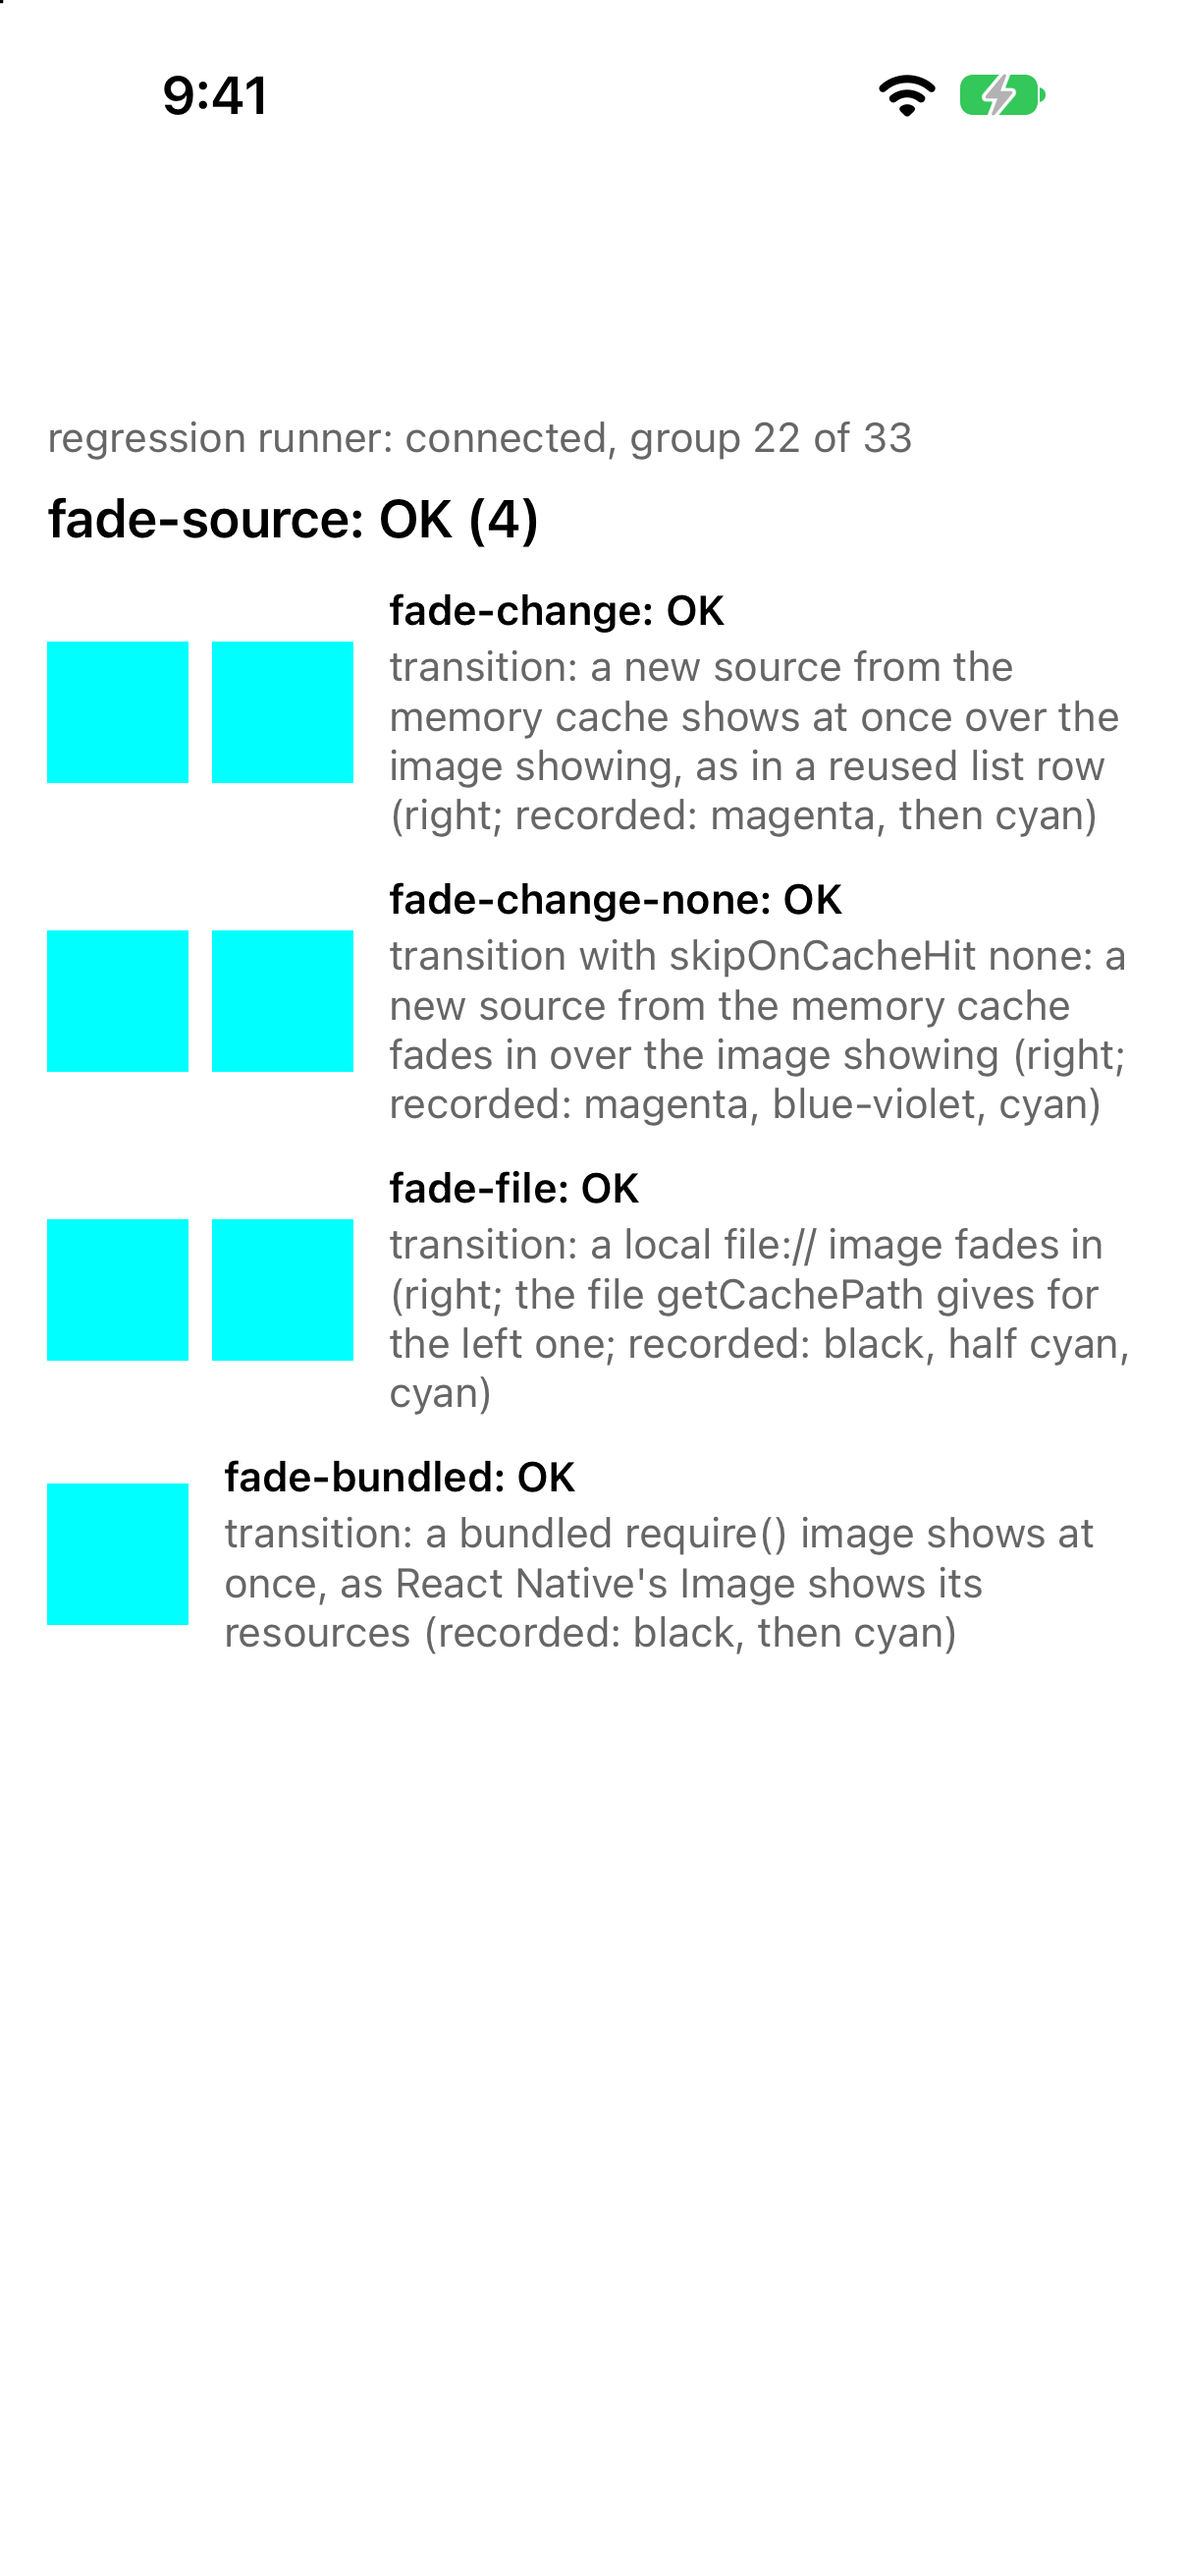
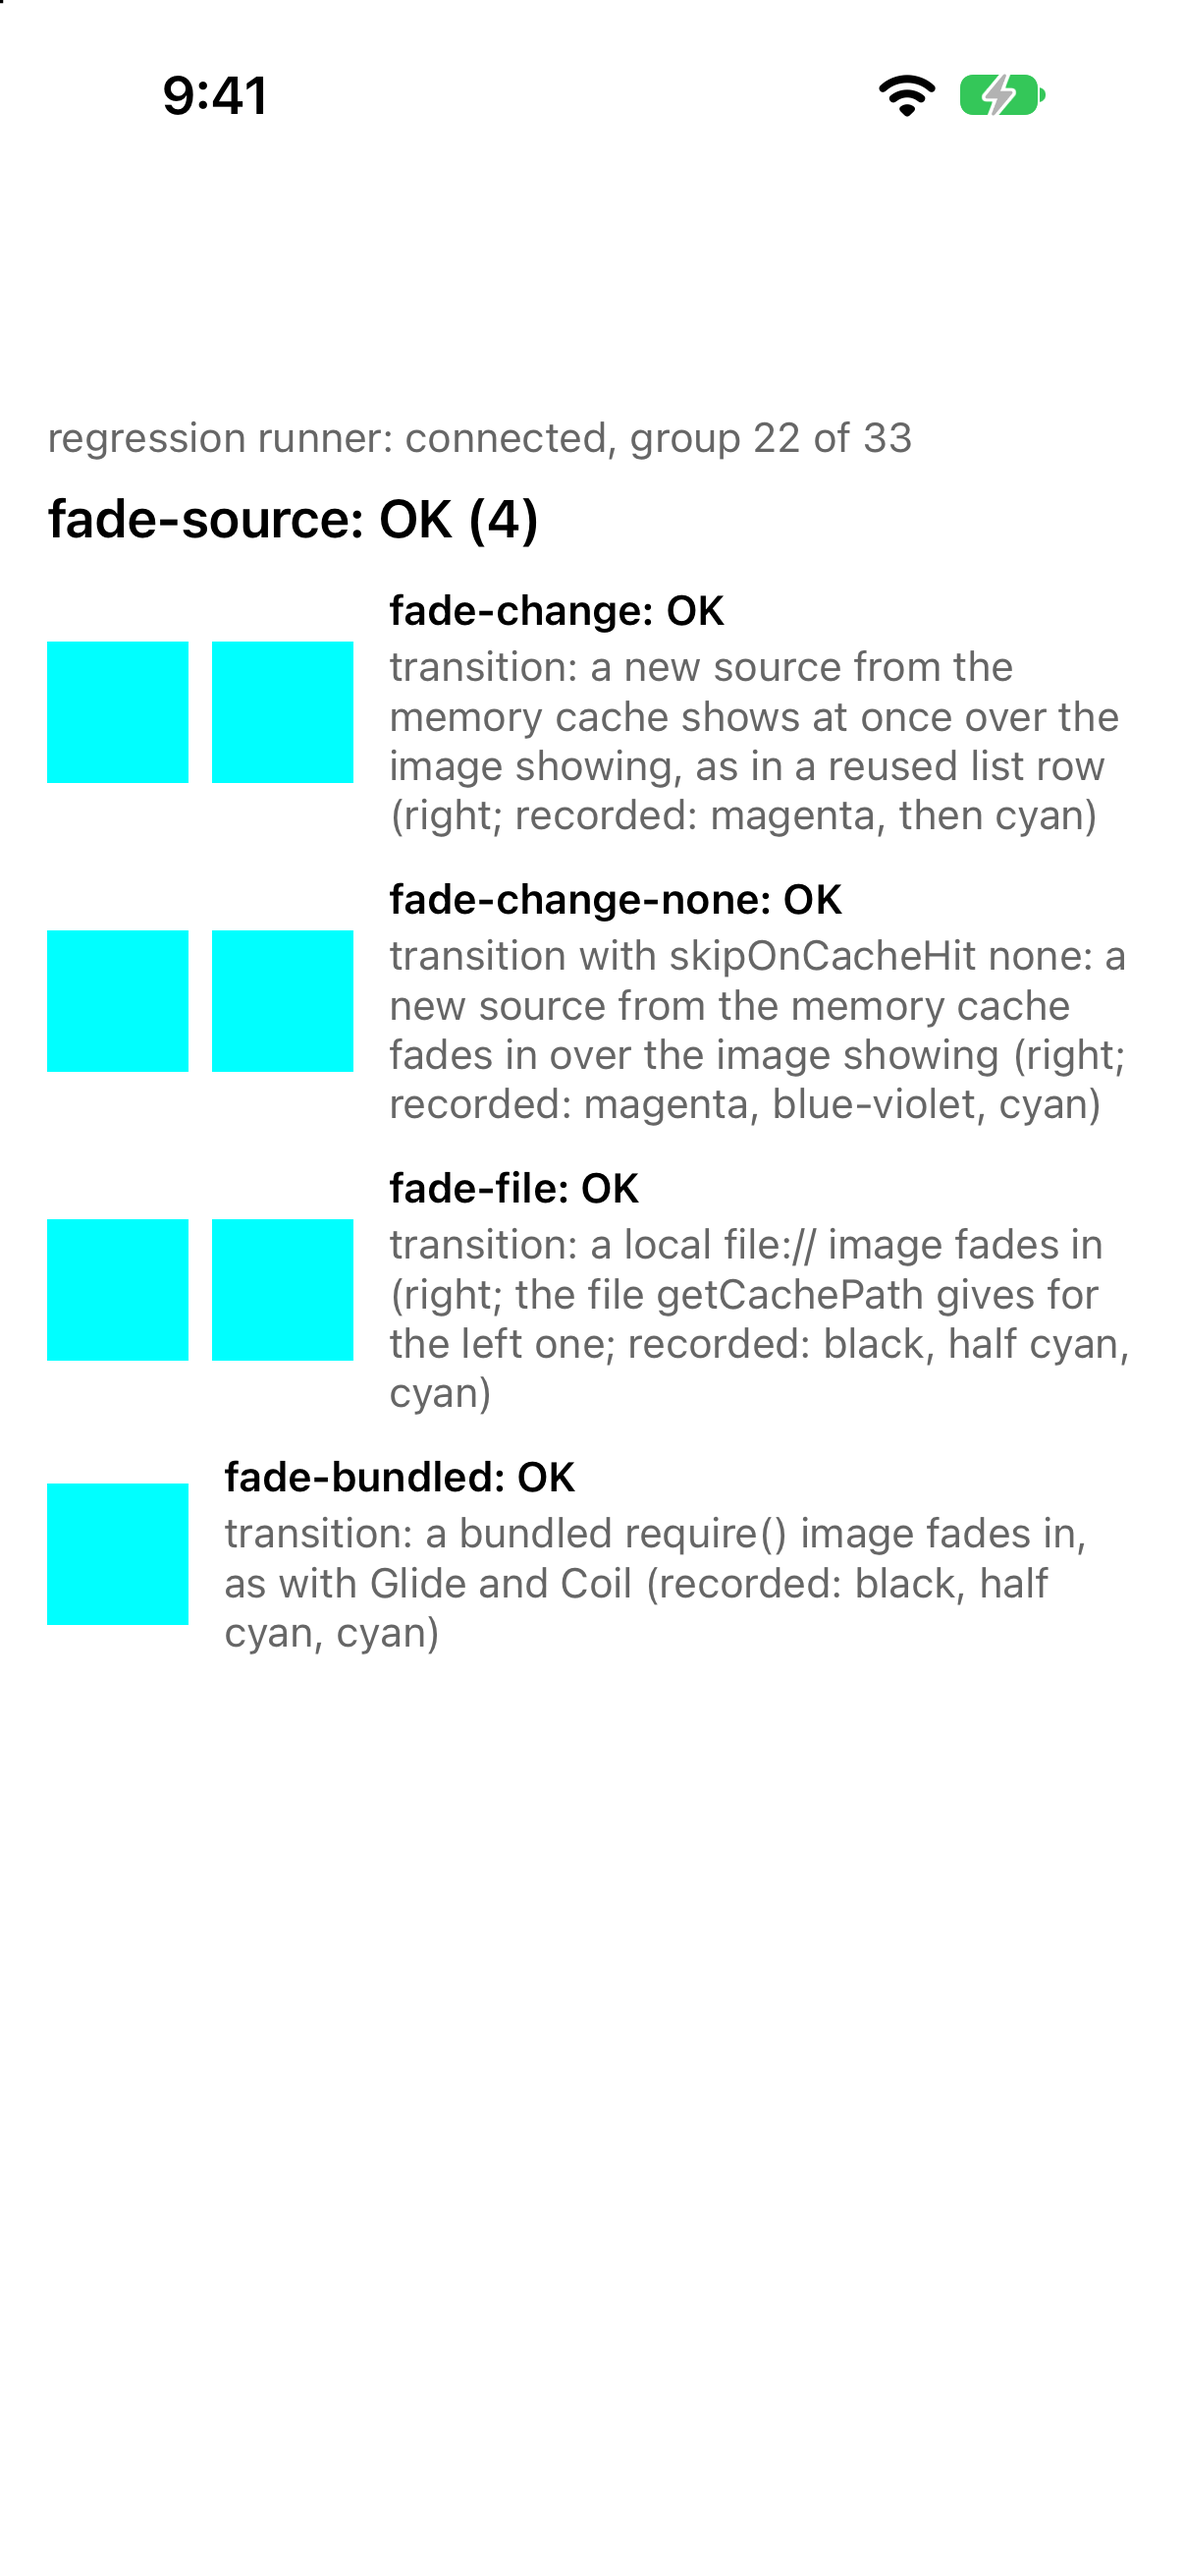
feat: fade bundled images like other loads, as Glide and Coil do

Changed region(s): [[0.1841, 0.587, 0.9204, 0.6487]]

diff --git a/src/index.tsx b/src/index.tsx
@@ -90,8 +90,9 @@ export type Transition = {
      *   only images that download (or local files) fade in.
      * - `'none'`: always transitions.
      *
-     * Downloads and local files fade in. Bundled images (`require()`) count
-     * as memory cache hits, as React Native's Image shows them at once.
+     * Downloads, local files and bundled images (`require()`) fade in, as
+     * with Glide and Coil (React Native's Image shows bundled images at
+     * once).
      * @default 'memory'
      */
     skipOnCacheHit?: 'none' | 'memory' | 'all' | null
@@ -368,25 +369,16 @@ function withProgress(onProgress: FastImageProps['onProgress']) {
 }
 
 // The native transition props. Always sent, so removing `transition` turns it
-// off. A bundled image (a require()d source, a number) counts as a memory
-// cache hit, as React Native's Image shows its resources at once: decided
-// here, as it's served by Metro over http in debug builds.
-function transitionProps(
-    transition: number | Transition | null | undefined,
-    source: FastImageProps['source'],
-) {
+// off.
+function transitionProps(transition: number | Transition | null | undefined) {
     const { duration, skipOnCacheHit } =
         typeof transition === 'number'
             ? { duration: transition, skipOnCacheHit: null }
             : transition || {}
-    const skip = skipOnCacheHit || 'memory'
-    const bundled = typeof source === 'number' && skip !== 'none'
     return {
         transitionDuration:
-            typeof duration === 'number' && duration > 0 && !bundled
-                ? duration
-                : 0,
-        transitionSkipOnCacheHit: skip,
+            typeof duration === 'number' && duration > 0 ? duration : 0,
+        transitionSkipOnCacheHit: skipOnCacheHit || 'memory',
     }
 }
 
@@ -518,7 +510,7 @@ function FastImageBase({
                 {...imageProps}
                 tintColor={resolvedTintColor}
                 loopCount={loopCount(loop)}
-                {...transitionProps(transition, source)}
+                {...transitionProps(transition)}
                 style={StyleSheet.absoluteFill}
                 source={resolvedSource}
                 defaultSource={resolvedDefaultSource}

diff --git a/src/index.test.tsx b/src/index.test.tsx
@@ -647,32 +647,15 @@ describe('transition', () => {
         ).toBe(0)
     })
 
-    it('shows a bundled image at once, unless skipOnCacheHit is none', () => {
+    it('fades a bundled image like any other', () => {
         const resolveAssetSource = spyOn(
             Image,
             'resolveAssetSource',
         ).mockImplementation((asset: any) => ({ uri: `asset-${asset}` }) as any)
         try {
-            expect(
-                nativeView(<FastImage source={1} transition={300} />).props
-                    .transitionDuration,
-            ).toBe(0)
-            expect(
-                nativeView(
-                    <FastImage
-                        source={1}
-                        transition={{ duration: 300, skipOnCacheHit: 'all' }}
-                    />,
-                ).props.transitionDuration,
-            ).toBe(0)
-            expect(
-                nativeView(
-                    <FastImage
-                        source={1}
-                        transition={{ duration: 300, skipOnCacheHit: 'none' }}
-                    />,
-                ).props.transitionDuration,
-            ).toBe(300)
+            const view = nativeView(<FastImage source={1} transition={300} />)
+            expect(view.props.transitionDuration).toBe(300)
+            expect(view.props.transitionSkipOnCacheHit).toBe('memory')
         } finally {
             resolveAssetSource.mockRestore()
         }

diff --git a/ReactNativeFastImageExample/src/RegressionExample.tsx b/ReactNativeFastImageExample/src/RegressionExample.tsx
@@ -3894,8 +3894,8 @@ export const REGRESSION_GROUPS: RegressionGroup[] = [
                 key="fade-bundled"
                 id="fade-bundled"
                 from="bundled"
-                fades={false}
-                description="transition: a bundled require() image shows at once, as React Native's Image shows its resources (recorded: black, then cyan)"
+                fades
+                description="transition: a bundled require() image fades in, as with Glide and Coil (recorded: black, half cyan, cyan)"
             />,
         ],
     },

diff --git a/README.md b/README.md
@@ -223,7 +223,7 @@ Fades the image in when it loads. A number is the duration in milliseconds, or p
     - `'all'`: images from the memory or disk cache: only images that download (or local files) fade in.
     - `'none'`: every image fades in.
 
-This applies to every image, also a new `source` in a view that already shows one: it fades in over the image showing, unless it's skipped. Downloads and local files (`file://`, `content://`) fade in. Bundled images (`require()`) count as memory cache hits, as React Native's `Image` shows them at once (in debug builds too, where Metro serves them). In lists that reuse views (e.g. FlashList), set `recyclingKey` so a reused view starts empty instead of fading from the previous item's image.
+This applies to every image, also a new `source` in a view that already shows one: it fades in over the image showing, unless it's skipped. Downloads, local files (`file://`, `content://`) and bundled images (`require()`) fade in, as with Glide and Coil (React Native's `Image` shows bundled images at once). In lists that reuse views (e.g. FlashList), set `recyclingKey` so a reused view starts empty instead of fading from the previous item's image.
 
 ```jsx
 <FastImage source={{ uri }} transition={300} />
